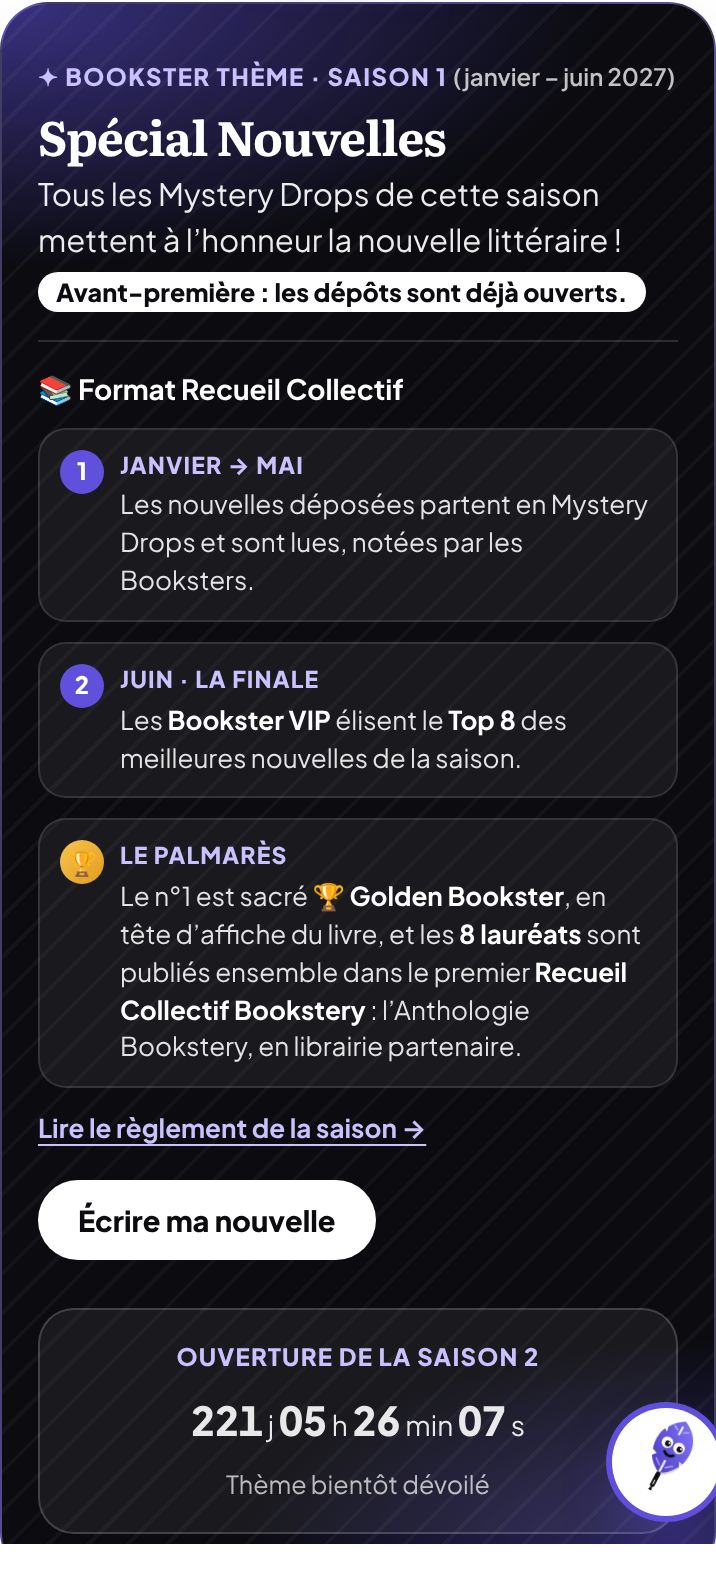
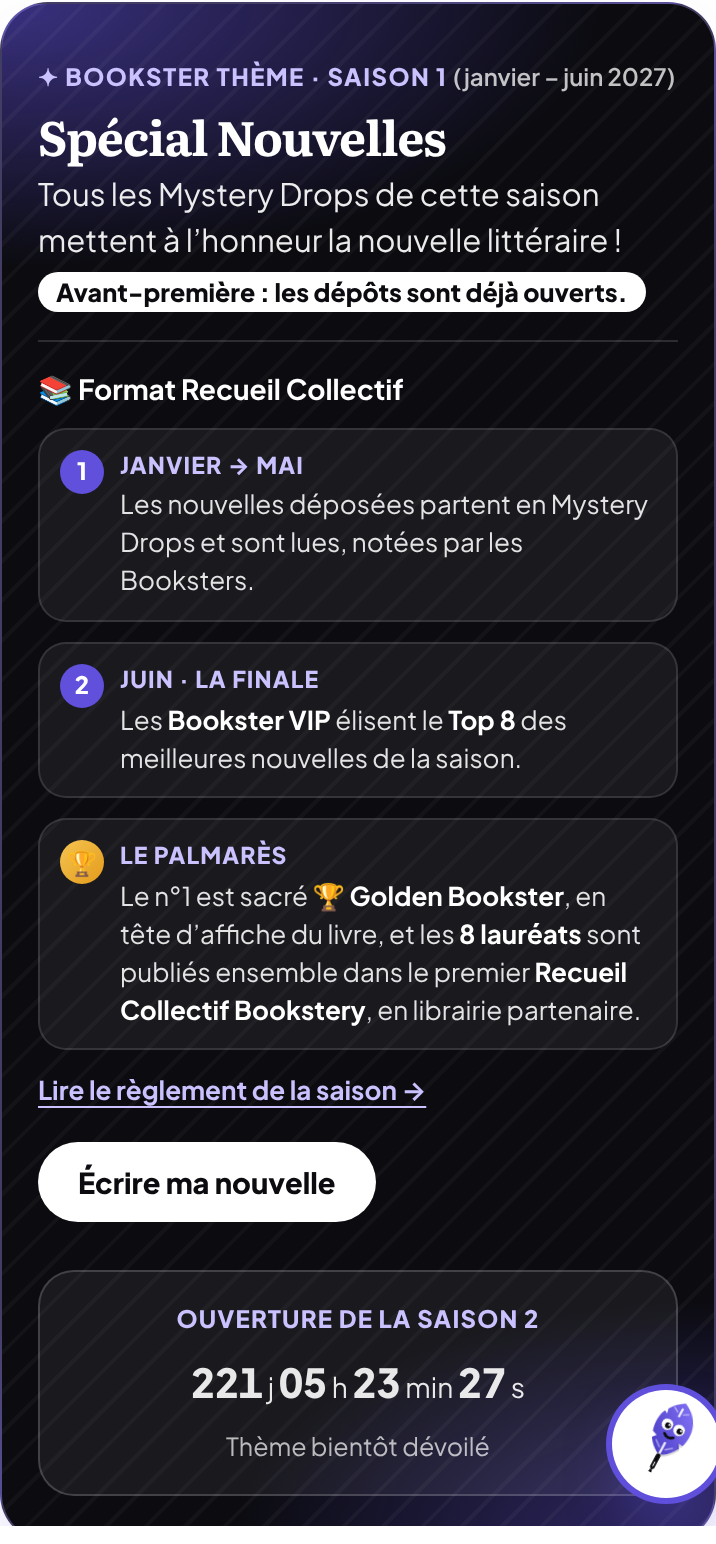
Saison 1 : « Recueil Collectif Bookstery » seul (sans « Anthologie »)
Claude-Session: https://claude.ai/code/session_01EPa3evC84KLMU14gb8iTX3

diff --git a/index.html b/index.html
@@ -1236,7 +1236,7 @@ footer .legal{grid-column:1/-1;border-top:1px solid var(--line);padding-top:18px
   </div>
 
   <div class="wrap">
-    <div class="saison-slot" data-saison="accueil"><section class="saison accueil" aria-label="Bookster Thème Saison 1"><div class="sz-l"><span class="sz-k">✦ Bookster Thème · Saison 1 <i>(janvier – juin 2027)</i></span><h2 class="sz-t">Spécial Nouvelles</h2><p class="sz-p">Tous les Mystery Drops de cette saison mettent à l’honneur la nouvelle littéraire&nbsp;!</p><div class="sz-rc"><b class="sz-rc-t">📚 Format Recueil Collectif</b><ol class="sz-steps"><li><span>Janvier → mai</span>Les nouvelles déposées partent en Mystery Drops et sont lues, notées par les Booksters.</li><li><span>Juin · la finale</span>Les <b>Bookster VIP</b> élisent le <b>Top 8</b> des meilleures nouvelles de la saison.</li><li><span>Le palmarès</span>Le n°1 est sacré <b>🏆 Golden Bookster</b>, en tête d’affiche du livre, et les <b>8 lauréats</b> sont publiés ensemble dans le premier <b>Recueil Collectif Bookstery</b>&nbsp;: l’Anthologie Bookstery, en librairie partenaire.</li></ol><a class="sz-reg" href="legal.html#c-saison1">Lire le règlement de la saison →</a></div><button class="sz-btn" type="button" data-auteur>Écrire ma nouvelle</button></div><div class="sz-r"><span class="sz-cd-k">Ouverture de la Saison 2</span><span class="sz-cd">1er juillet 2027</span><span class="sz-cd-n">Thème bientôt dévoilé</span></div></section></div>
+    <div class="saison-slot" data-saison="accueil"><section class="saison accueil" aria-label="Bookster Thème Saison 1"><div class="sz-l"><span class="sz-k">✦ Bookster Thème · Saison 1 <i>(janvier – juin 2027)</i></span><h2 class="sz-t">Spécial Nouvelles</h2><p class="sz-p">Tous les Mystery Drops de cette saison mettent à l’honneur la nouvelle littéraire&nbsp;!</p><div class="sz-rc"><b class="sz-rc-t">📚 Format Recueil Collectif</b><ol class="sz-steps"><li><span>Janvier → mai</span>Les nouvelles déposées partent en Mystery Drops et sont lues, notées par les Booksters.</li><li><span>Juin · la finale</span>Les <b>Bookster VIP</b> élisent le <b>Top 8</b> des meilleures nouvelles de la saison.</li><li><span>Le palmarès</span>Le n°1 est sacré <b>🏆 Golden Bookster</b>, en tête d’affiche du livre, et les <b>8 lauréats</b> sont publiés ensemble dans le premier <b>Recueil Collectif Bookstery</b>, en librairie partenaire.</li></ol><a class="sz-reg" href="legal.html#c-saison1">Lire le règlement de la saison →</a></div><button class="sz-btn" type="button" data-auteur>Écrire ma nouvelle</button></div><div class="sz-r"><span class="sz-cd-k">Ouverture de la Saison 2</span><span class="sz-cd">1er juillet 2027</span><span class="sz-cd-n">Thème bientôt dévoilé</span></div></section></div>
     <div class="themes-slot" data-themes="accueil"><section class="bt accueil" aria-label="Boîte à Thèmes Saison 2"><div class="bt-l"><span class="bt-k">💡 Boîte à Thèmes · Saison 2</span><h3 class="bt-t">Quel thème pour la Saison 2&nbsp;?</h3><p class="bt-p">Propose le prochain Bookster Thème&nbsp;: la communauté décide, et Bookstery l’écoute.</p><div class="bt-grid"><span class="bt-g">Aventure</span><span class="bt-g">BD</span><span class="bt-g">Classiques</span><span class="bt-g">Fantasy</span><span class="bt-g">Feel-good</span><span class="bt-g">Horreur</span><span class="bt-g">Manga</span><span class="bt-g">Nouvelles</span><span class="bt-g">Poésie</span><span class="bt-g">Polar</span><span class="bt-g">Romance</span><span class="bt-g">Science-fiction</span><span class="bt-g">Thriller</span><span class="bt-g">Young Adult</span></div></div><div class="bt-r"><div class="bt-live"><span class="bt-dot"></span>Tendances en direct</div><p class="bt-empty">Chargement des tendances…</p></div></section></div>
     <ul class="vprops" aria-label="Pourquoi Bookstery">
       <li><span class="vp-ico" aria-hidden="true"><svg width="22" height="22" viewBox="0 0 24 24" fill="none" stroke="currentColor" stroke-width="2" stroke-linecap="round" stroke-linejoin="round"><path d="M4 19.5V5a2 2 0 0 1 2-2h13v16H6a2 2 0 0 0-2 2.5Z"/><path d="M8 7h7M8 11h5"/></svg></span><div><b>Des livres d’occasion près de chez toi</b><span>Vendus par des Booksters, avec photos réelles de chaque exemplaire.</span></div></li>
@@ -3307,7 +3307,7 @@ var AIDE_FAQ=[
  {k:"auteur deposer depot texte ecrire publier mon texte extrait nouvelle roman chapitre espace auteur",a:"Dans la section Auteurs, clique sur « **Envoyer mon texte** » : extrait de roman, premier chapitre ou nouvelle, entre **1 000 et 5 000 mots**, en français. C’est gratuit et ton texte reste le tien. Tu reçois un **certificat d’horodatage**, puis ton texte part en manuscrit mystère dans le Bookstery Drop."},
  {k:"refuse refus pourquoi depot bloque verification moderation ia detecteur plagiat fautes",a:"Avant tout dépôt, on vérifie que le texte est **original** (anti-plagiat), conforme à la charte, en français, littéraire et lisible, puis le **détecteur d’IA** (au-delà de 50 % d’écriture générée, il est refusé). Le message de refus t’explique la raison ; pour des fautes, tu peux relire et redéposer."},
  {k:"fondateur badge fondateur createur textes du fondateur",a:"Pour lancer la plateforme, le **fondateur de Bookstery** partage ses propres textes. Ils portent le badge **★ Fondateur Bookstery**, passent les mêmes vérifications que les autres, sont tirés dans les Mystery Drops **sans aucune priorité**, et ne peuvent pas gagner le Golden Bookster ni les prix des librairies partenaires."},
- {k:"saison saisons theme thematique bookster theme nouvelles nouvelle speciale semestre saison 2 golden book concours",a:"Chaque semestre a son **Bookster Thème**. **Saison 1 (janvier – juin 2027) : Spécial Nouvelles** : tous les Mystery Drops de la saison mettent à l’honneur la nouvelle littéraire, les auteurs déposent des nouvelles courtes complètes, et à la finale de juin, les Bookster VIP élisent le **Top 8** : le n°1 est sacré **Golden Bookster** et les 8 lauréats sont publiés ensemble dans le premier **Recueil Collectif Bookstery** (l’Anthologie Bookstery, en librairie partenaire). Dès 10 € d’achat, quel que soit le livre, ton Mystery Drop est une nouvelle de la saison. La Saison 2 ouvre le 1er juillet 2027 : compte à rebours sur l’accueil !"},
+ {k:"saison saisons theme thematique bookster theme nouvelles nouvelle speciale semestre saison 2 golden book concours",a:"Chaque semestre a son **Bookster Thème**. **Saison 1 (janvier – juin 2027) : Spécial Nouvelles** : tous les Mystery Drops de la saison mettent à l’honneur la nouvelle littéraire, les auteurs déposent des nouvelles courtes complètes, et à la finale de juin, les Bookster VIP élisent le **Top 8** : le n°1 est sacré **Golden Bookster** et les 8 lauréats sont publiés ensemble dans le premier **Recueil Collectif Bookstery**, en librairie partenaire. Dès 10 € d’achat, quel que soit le livre, ton Mystery Drop est une nouvelle de la saison. La Saison 2 ouvre le 1er juillet 2027 : compte à rebours sur l’accueil !"},
  {k:"boite a themes boite theme proposer proposition idee saison 2 tendance vote",a:"La **Boîte à Thèmes** (sur l’accueil et dans ton espace) te permet de voter pour le genre de la **prochaine saison** : clique sur un genre (polar, fantasy, poésie…, les genres utilitaires ne sont pas proposés) puis sur « Voter ». **Un vote par membre**, il faut être connecté. Les 3 thèmes les plus demandés s’affichent en direct, avec leur nombre de votes."},
  {k:"pack accelerateur abonnement auteur boost prioritaire statistiques stats 15 resilier arreter desabonner",a:"Le **Pack Accélérateur Auteurs** coûte **15 € par mois, sans engagement**. Tant qu’il est actif, ton texte a **3× plus de chances** d’être tiré dans les Mystery Drops de son genre, et tu vois **tes statistiques de lecture** (envois, lectures, avis, note, abonnés). Pour l’activer ou l’arrêter : Espace auteur, onglet « ⚡ Pack Accélérateur ». L’arrêt se fait en 1 clic et le Pack reste actif jusqu’à la fin du mois payé."},
  {k:"certificat horodatage preuve sha empreinte droit auteur",a:"Ton **certificat d’horodatage** contient la date et l’heure du dépôt et une empreinte SHA-256 unique de ton texte : il prouve que tu l’avais écrit à cette date. Tu le retrouves dans « **Mes textes déposés** »."},
@@ -3548,7 +3548,7 @@ function saisonBanner(ctx){var c=saisonCourante();if(!c)return"";var nx=saisonSu
     '<h2 class="sz-t">'+esc(c.theme)+'</h2>'+
     '<p class="sz-p">'+esc(c.accroche)+(avant?" <span class=\"sz-pre\">Avant-première : les dépôts sont déjà ouverts.</span>":"")+'</p>'+
     (ctx==="auteur"?'<p class="sz-lock">🔒 Dépôts de la saison : <b>format '+esc(c.formatNom||"libre")+'</b> uniquement.</p>':"")+
-    (c.recueil?'<div class="sz-rc"><b class="sz-rc-t">📚 Format Recueil Collectif</b><ol class="sz-steps"><li><span>Janvier → mai</span>Les nouvelles déposées partent en Mystery Drops et sont lues, notées par les Booksters.</li><li><span>Juin · la finale</span>Les <b>Bookster VIP</b> élisent le <b>Top 8</b> des meilleures nouvelles de la saison.</li><li><span>Le palmarès</span>Le n°1 est sacré <b>🏆 Golden Bookster</b>, en tête d’affiche du livre, et les <b>8 lauréats</b> sont publiés ensemble dans le premier <b>Recueil Collectif Bookstery</b>&nbsp;: l’Anthologie Bookstery, en librairie partenaire.</li></ol><a class="sz-reg" href="legal.html#c-saison1">Lire le règlement de la saison →</a></div>':"")+
+    (c.recueil?'<div class="sz-rc"><b class="sz-rc-t">📚 Format Recueil Collectif</b><ol class="sz-steps"><li><span>Janvier → mai</span>Les nouvelles déposées partent en Mystery Drops et sont lues, notées par les Booksters.</li><li><span>Juin · la finale</span>Les <b>Bookster VIP</b> élisent le <b>Top 8</b> des meilleures nouvelles de la saison.</li><li><span>Le palmarès</span>Le n°1 est sacré <b>🏆 Golden Bookster</b>, en tête d’affiche du livre, et les <b>8 lauréats</b> sont publiés ensemble dans le premier <b>Recueil Collectif Bookstery</b>, en librairie partenaire.</li></ol><a class="sz-reg" href="legal.html#c-saison1">Lire le règlement de la saison →</a></div>':"")+
     (ctx==="accueil"?'<button class="sz-btn" type="button" data-auteur>Écrire ma nouvelle</button>':"")+'</div>'+
     (nx?'<div class="sz-r"><span class="sz-cd-k">Ouverture de la '+esc(nx.nom)+'</span><span class="sz-cd" data-cd="'+esc(nx.debut)+'">'+rebours(Date.parse(nx.debut)-Date.now())+'</span><span class="sz-cd-n">'+esc(nx.theme)+'</span></div>':"")+
   '</section>'}

diff --git a/legal.html b/legal.html
@@ -224,10 +224,10 @@ footer a{color:var(--muted)}
       <ul>
         <li><b>Janvier à mai</b> : les nouvelles approuvées sont distribuées en Mystery Drops, lues et notées par les Booksters.</li>
         <li><b>Juin — la finale</b> : les Booksters ayant le statut Bookster VIP au 1<sup>er</sup> juin votent pour élire le <b>Top 8</b> des meilleures nouvelles de la saison, parmi une sélection établie à partir des notes et avis des lecteurs. Chaque Bookster VIP dispose d’un vote ; les modalités précises (liste des finalistes, dates, nombre de choix) sont annoncées sur le Site au plus tard le 1<sup>er</sup> juin 2027. En cas d’égalité, les nouvelles sont départagées par leur note moyenne des lecteurs.</li>
-        <li><b>Le palmarès</b> : la nouvelle classée n°1 est sacrée <b>Golden Bookster</b> de la saison et figure en tête d’affiche du livre. Les <b>8 nouvelles lauréates</b> sont publiées ensemble dans le premier <b>Recueil Collectif Bookstery</b> («&nbsp;l’Anthologie Bookstery&nbsp;»), édité avec une maison d’édition ou une librairie partenaire et vendu en librairie partenaire.</li>
+        <li><b>Le palmarès</b> : la nouvelle classée n°1 est sacrée <b>Golden Bookster</b> de la saison et figure en tête d’affiche du livre. Les <b>8 nouvelles lauréates</b> sont publiées ensemble dans le premier <b>Recueil Collectif Bookstery</b>, édité avec une maison d’édition ou une librairie partenaire et vendu en librairie partenaire.</li>
       </ul>
       <h4>3. Lauréats et publication</h4>
-      <p>Les lauréats sont informés par e-mail et sur le Site. Leur publication dans l’Anthologie fait l’objet d’un <b>contrat d’édition distinct</b>, conforme au Code de la propriété intellectuelle, conclu avec l’éditeur partenaire et précisant notamment la rémunération des Auteurs <span class="todo">[droits d’auteur, à-valoir, exemplaires d’auteur]</span>. Un lauréat qui ne souhaite pas être publié peut refuser : la nouvelle classée suivante le remplace. Les textes restent la propriété de leurs Auteurs.</p>
+      <p>Les lauréats sont informés par e-mail et sur le Site. Leur publication dans le Recueil Collectif fait l’objet d’un <b>contrat d’édition distinct</b>, conforme au Code de la propriété intellectuelle, conclu avec l’éditeur partenaire et précisant notamment la rémunération des Auteurs <span class="todo">[droits d’auteur, à-valoir, exemplaires d’auteur]</span>. Un lauréat qui ne souhaite pas être publié peut refuser : la nouvelle classée suivante le remplace. Les textes restent la propriété de leurs Auteurs.</p>
       <h4>4. Exclusions et loyauté</h4>
       <p>Les œuvres du fondateur et des membres de l’équipe Bookstery ne peuvent pas figurer au palmarès (article 8 ter). Un Bookster VIP ne peut pas voter pour ses propres textes. Tout vote multiple, achat de votes ou manœuvre visant à fausser le classement entraîne l’exclusion du texte concerné et, le cas échéant, la fermeture du compte. Bookstery peut écarter un texte retiré pour non-respect de la charte. Bookstery se réserve le droit de reporter la finale ou la publication en cas de force majeure ou si moins de 8 nouvelles sont éligibles ; les participants en sont alors informés.</p>
 

diff --git a/supabase/functions/aide/faq.ts b/supabase/functions/aide/faq.ts
@@ -21,7 +21,7 @@ Bookstery est une plateforme lyonnaise, éthique et circulaire, qui donne une se
 - Genre de secours : s'il n'existe aucun texte dans ce genre, le manuscrit vient de la même famille (Imaginaire : Fantasy, Fantastique, Science-fiction, Horreur ; Polar & Thriller ; Littérature : Romans, Romance, Roman historique, Feel-good, Aventure, Humour, Classiques, Nouvelles, Théâtre, Poésie ; Jeunesse : Jeunesse, Young Adult, Contes & Légendes). Sinon, le Bookster choisit parmi ses genres préférés.
 
 # Bookster Thème (saisons)
-- Chaque semestre a un thème. Saison 1 (janvier – juin 2027) : « Spécial Nouvelles » : tous les Mystery Drops de la saison mettent à l'honneur la nouvelle littéraire. Les auteurs ne peuvent déposer que des nouvelles courtes complètes pendant la saison, Format Recueil Collectif : lors de la finale du mois 6 (juin 2027), les Bookster VIP élisent le Top 8 des meilleures nouvelles ; le n°1 est sacré Golden Bookster (en tête d'affiche du livre) et les 8 lauréats sont publiés ensemble dans le premier Recueil Collectif Bookstery (l'Anthologie Bookstery, en librairie partenaire). Règlement : article 7 bis des CGU. Dès 10 € d'achat, quel que soit le livre, le Mystery Drop est une nouvelle approuvée de la saison. Saison 2 : juillet – décembre 2027, thème bientôt dévoilé (compte à rebours sur l'accueil et dans l'Espace auteur).
+- Chaque semestre a un thème. Saison 1 (janvier – juin 2027) : « Spécial Nouvelles » : tous les Mystery Drops de la saison mettent à l'honneur la nouvelle littéraire. Les auteurs ne peuvent déposer que des nouvelles courtes complètes pendant la saison, Format Recueil Collectif : lors de la finale du mois 6 (juin 2027), les Bookster VIP élisent le Top 8 des meilleures nouvelles ; le n°1 est sacré Golden Bookster (en tête d'affiche du livre) et les 8 lauréats sont publiés ensemble dans le premier Recueil Collectif Bookstery, en librairie partenaire. Règlement : article 7 bis des CGU. Dès 10 € d'achat, quel que soit le livre, le Mystery Drop est une nouvelle approuvée de la saison. Saison 2 : juillet – décembre 2027, thème bientôt dévoilé (compte à rebours sur l'accueil et dans l'Espace auteur).
 
 - Boîte à Thèmes : sur l'accueil et dans « Mon espace », chaque membre connecté peut voter UNE fois pour le genre de la saison suivante en cliquant sur un genre (les genres utilitaires ne sont pas proposés). Les 3 thèmes les plus demandés s'affichent en direct avec leur nombre de votes.
 

diff --git a/README.md b/README.md
@@ -234,4 +234,4 @@ Sur l'accueil (sous la bannière de la saison) et dans « Mon espace » :
 
 ## Saison 1 : format Recueil Collectif
 
-Bannière (accueil + Espace auteur) : 3 étapes — janvier → mai (Mystery Drops, lectures, notes) ; juin, la finale (les Bookster VIP élisent le Top 8) ; le palmarès (n°1 sacré **Golden Bookster**, en tête d'affiche ; les 8 lauréats publiés dans le premier **Recueil Collectif Bookstery**, l'Anthologie Bookstery en librairie partenaire). Règlement complet : CGU, article 7 bis (`legal.html#c-saison1`). Le vote de la finale reste à construire avant juin 2027.
+Bannière (accueil + Espace auteur) : 3 étapes — janvier → mai (Mystery Drops, lectures, notes) ; juin, la finale (les Bookster VIP élisent le Top 8) ; le palmarès (n°1 sacré **Golden Bookster**, en tête d'affiche ; les 8 lauréats publiés dans le premier **Recueil Collectif Bookstery**, en librairie partenaire). Règlement complet : CGU, article 7 bis (`legal.html#c-saison1`). Le vote de la finale reste à construire avant juin 2027.
